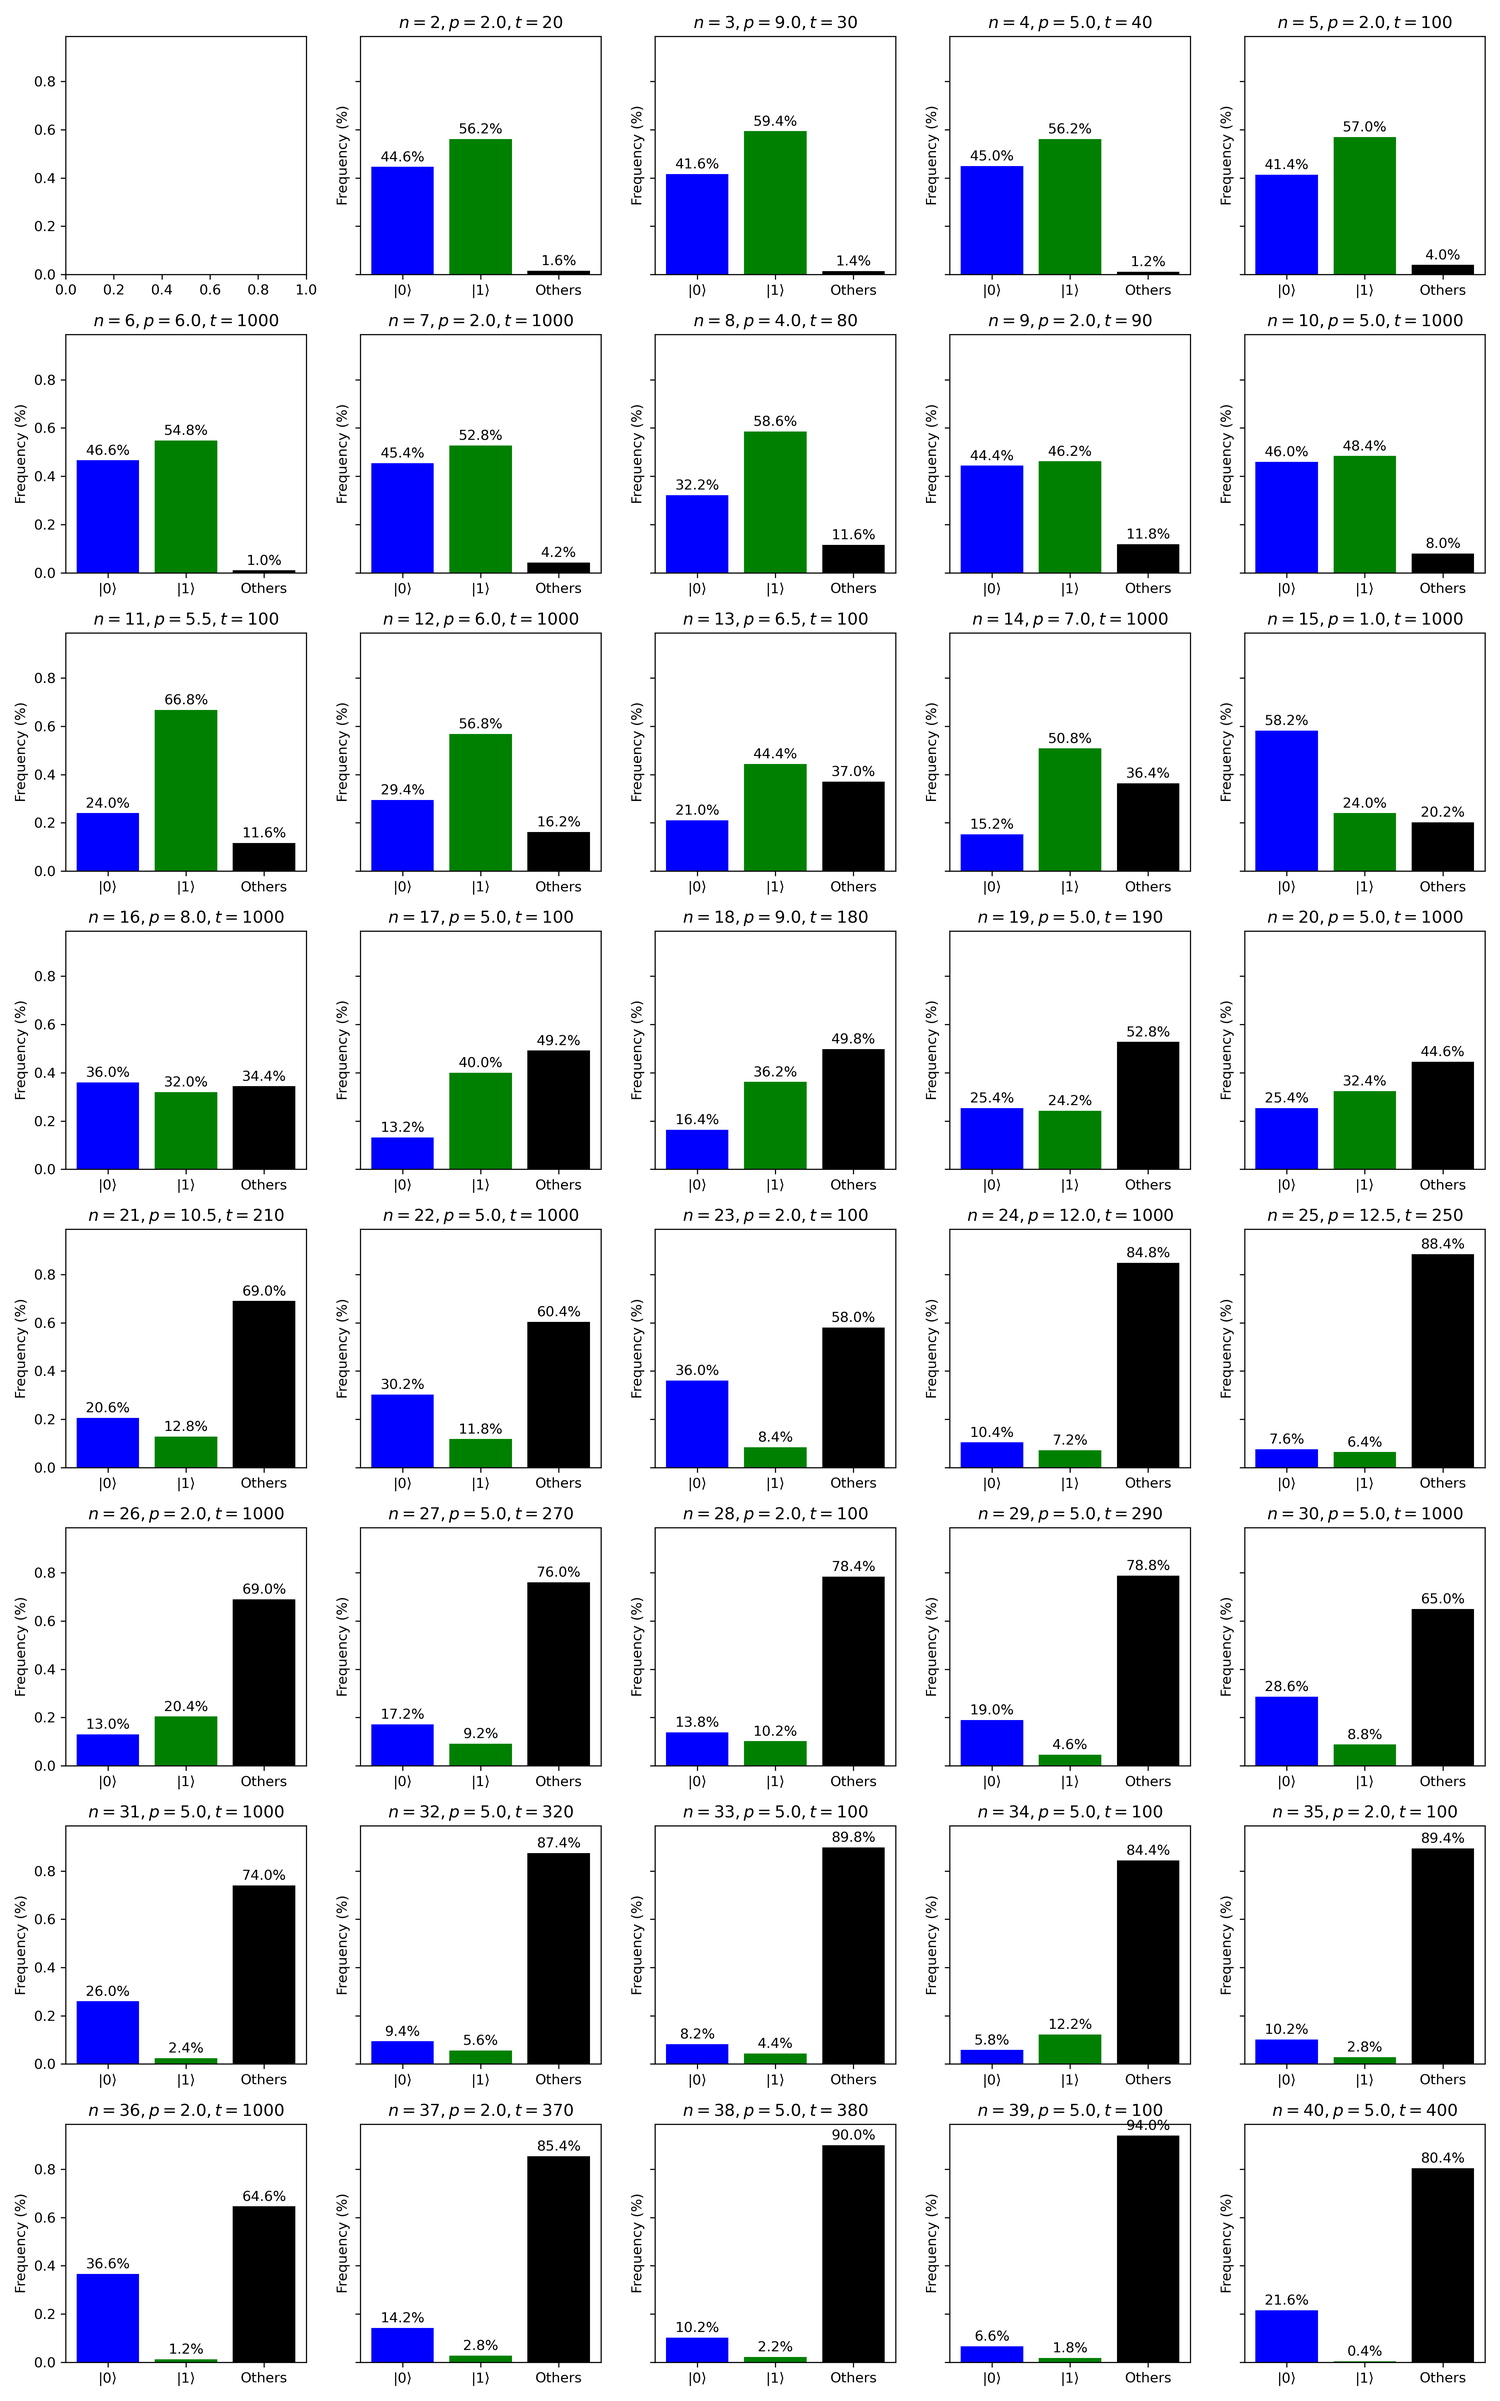
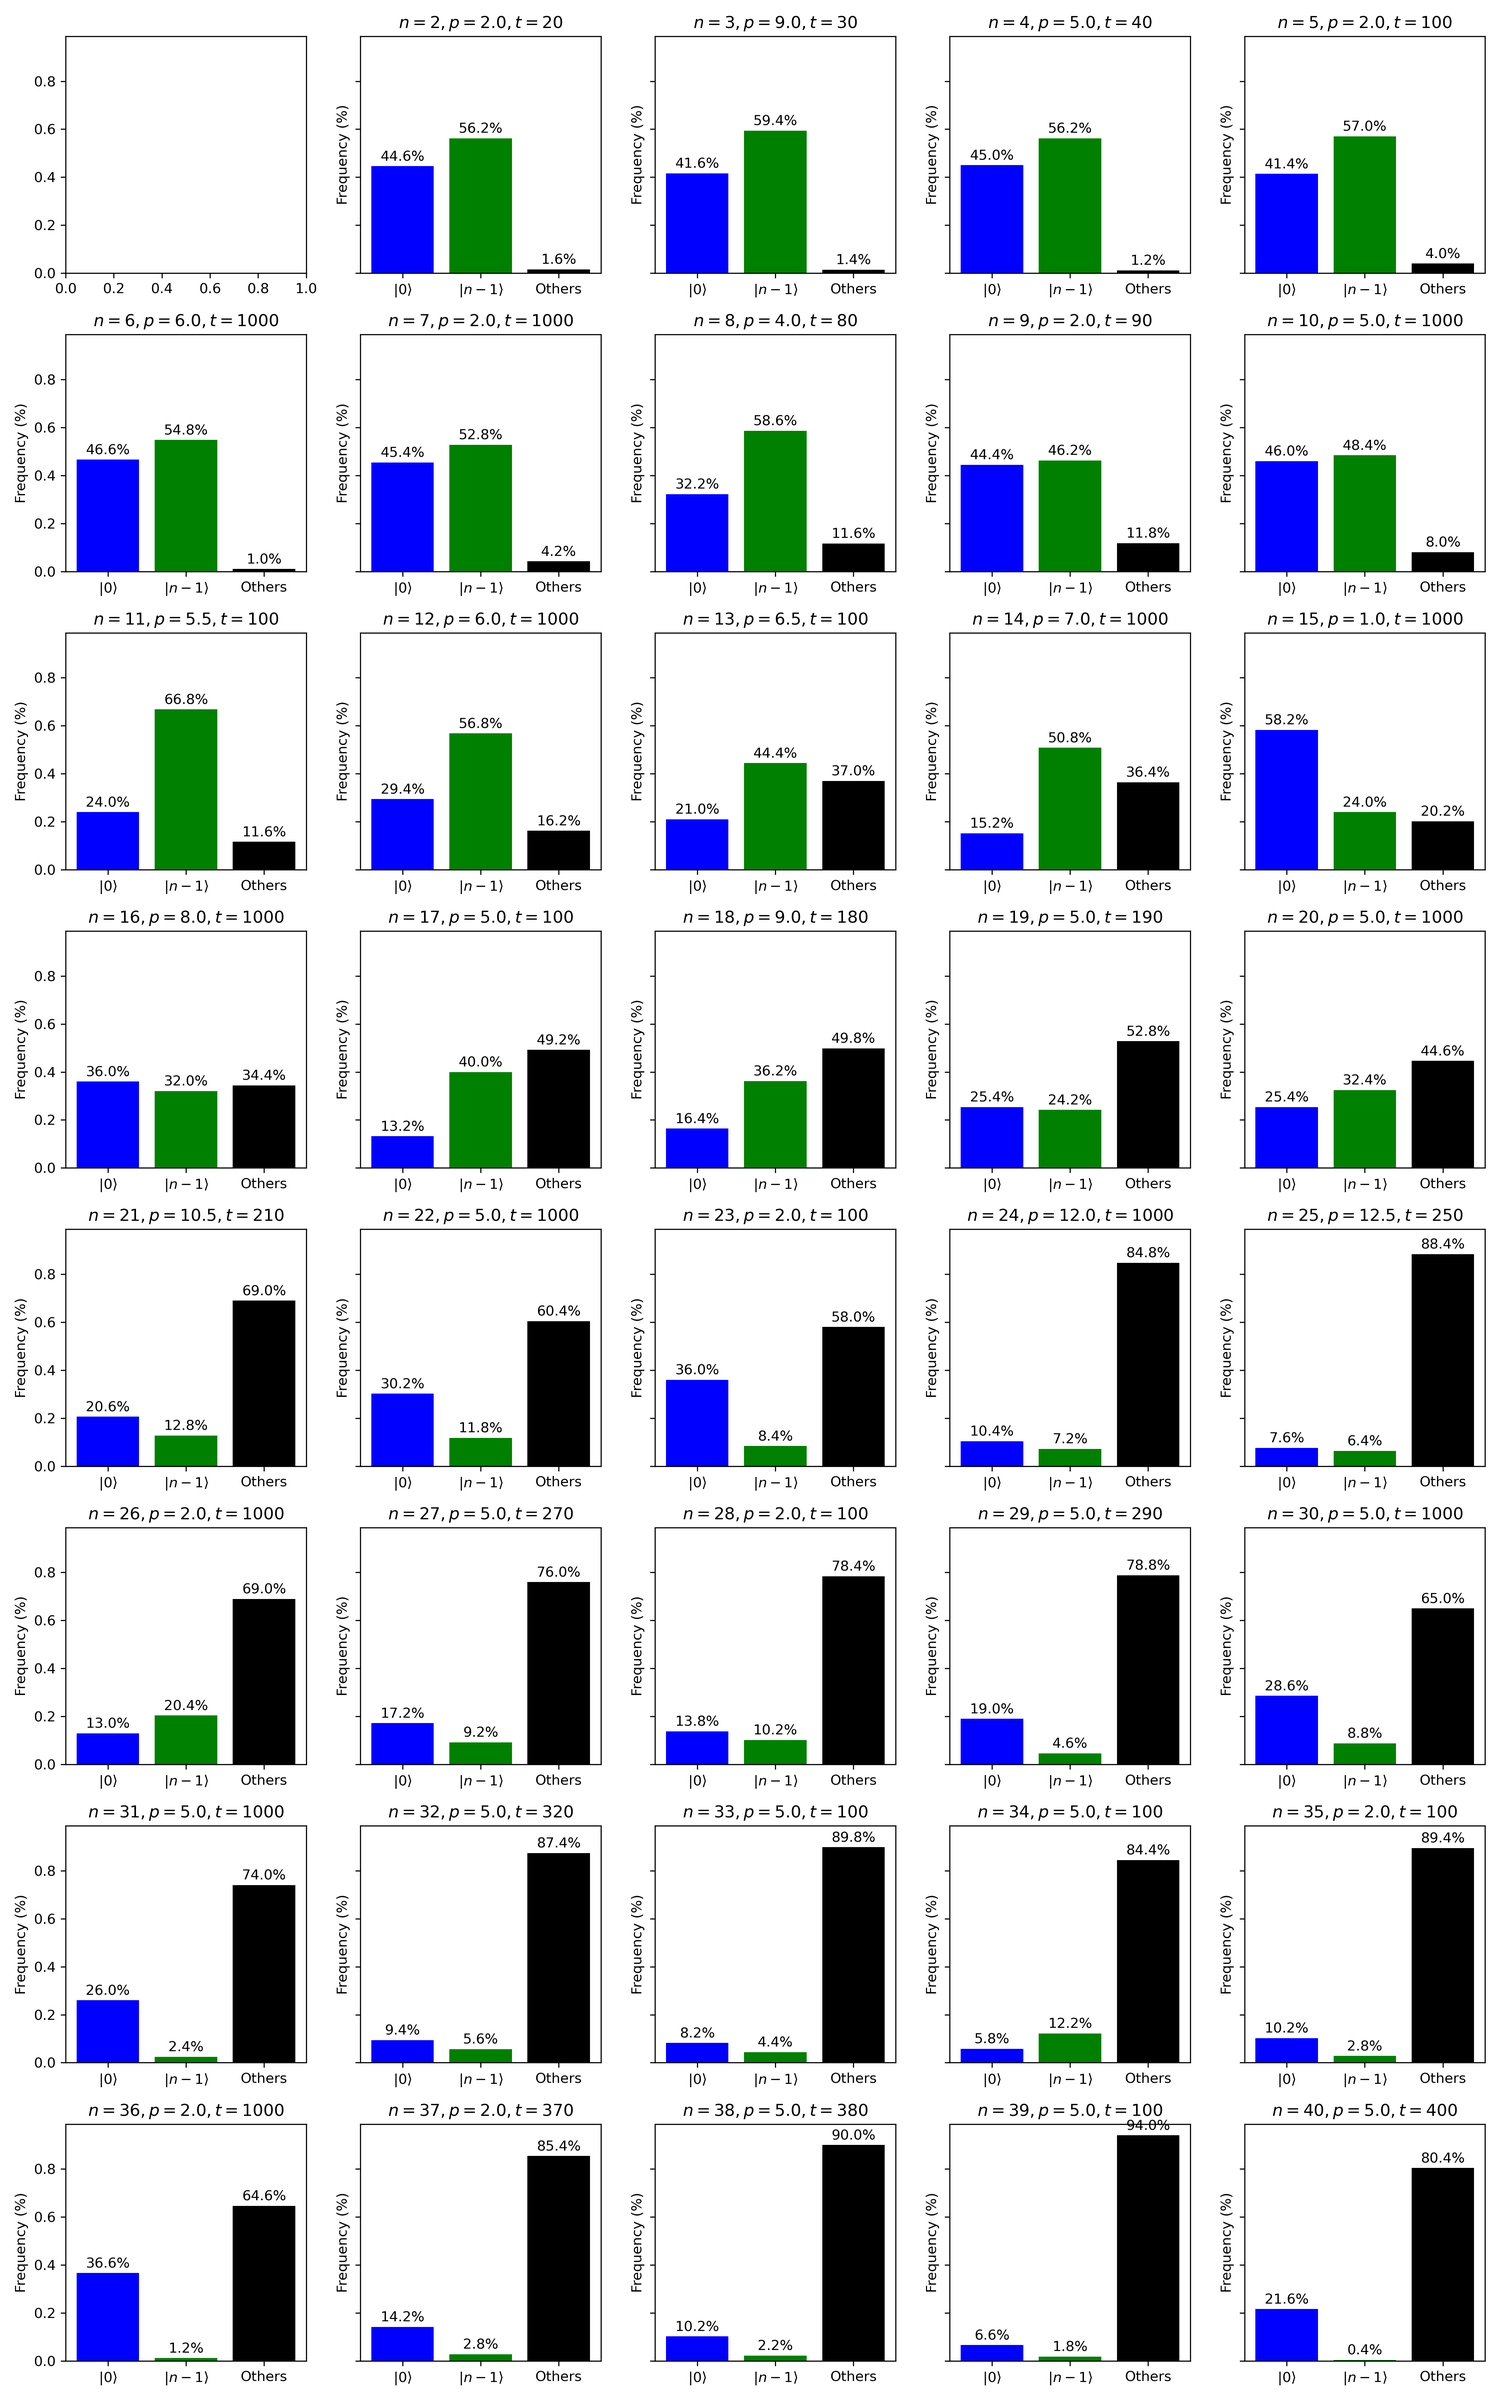
Naming cleanup in code and labels.

diff --git a/src/dwaveSolver.py b/src/dwaveSolver.py
@@ -34,9 +34,9 @@ else:
     # Access the D-Wave devices.
     PEGASUS4_1 = DWaveSampler(solver='Advantage_system4.1',token=token) 
     PEGASUS6_4 = DWaveSampler(solver='Advantage_system6.4',token=token)
-    ZEPHYER = DWaveSampler(solver='Advantage2_prototype2.6',token=token)
+    ZEPHYR = DWaveSampler(solver='Advantage2_prototype2.6',token=token)
     QPU_SAMPLERS = {
-        'zephyer': EmbeddingComposite(ZEPHYER),
+        'zephyr': EmbeddingComposite(ZEPHYR),
         # 'pegasus6_4': EmbeddingComposite(PEGASUS6_4),
         # 'pegasus4_1': EmbeddingComposite(PEGASUS4_1)
 }

diff --git a/src/dataProcessing.py b/src/dataProcessing.py
@@ -31,7 +31,7 @@ def plotFigure(dictionary, filename):
         penalty = float(dictionary[n]["penalty"])
         time = dictionary[n]["time"]
         bars = ax.bar(
-            ['|0⟩', '|1⟩', 'Others'],
+            ['$|0⟩$', '$|n-1⟩$', 'Others'],
             [
                 dictionary[n]['zeros'] / SHOTS,
                 dictionary[n]['ones'] / SHOTS,
